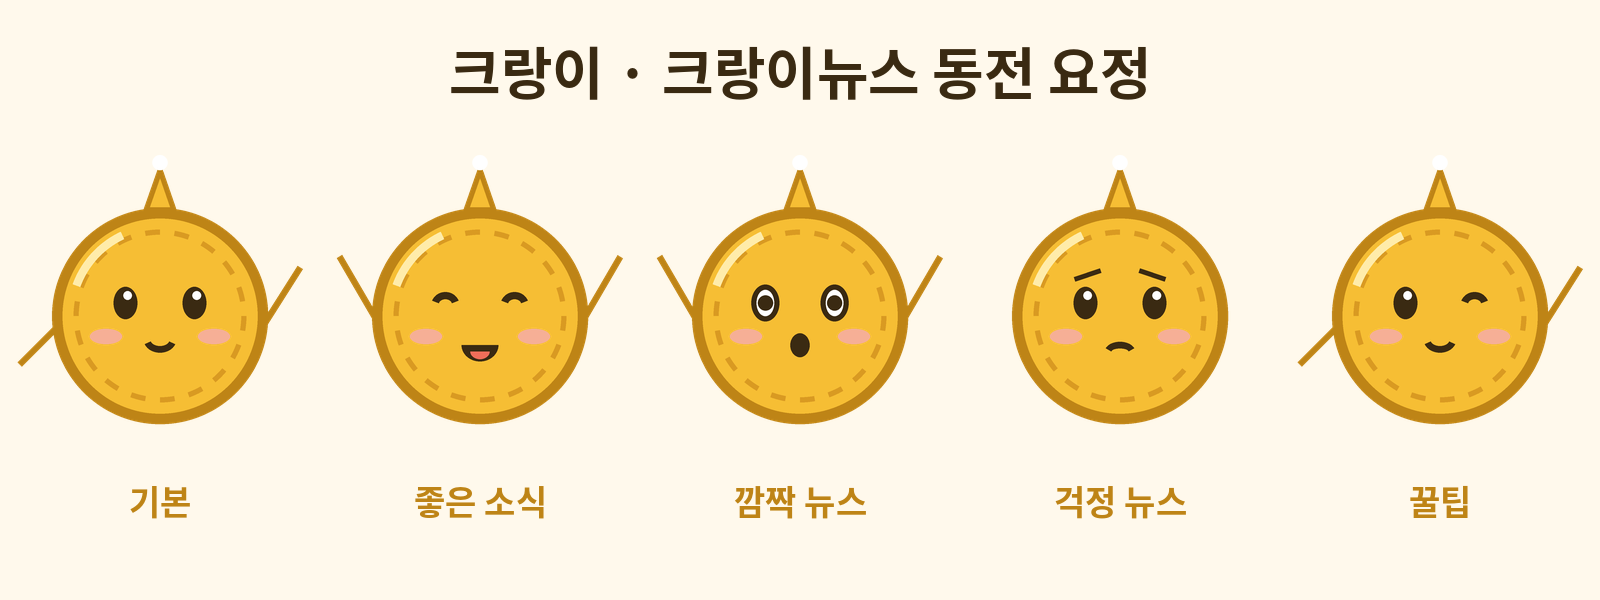
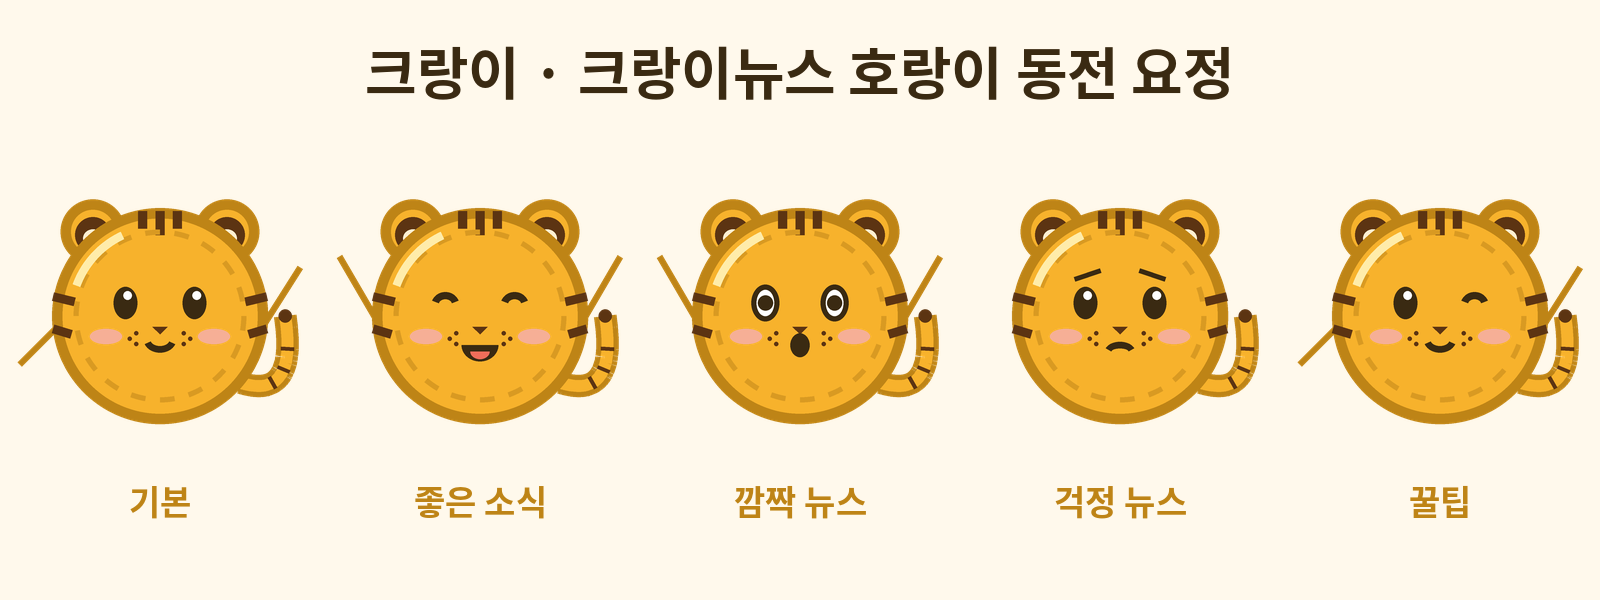
Give Krangi tiger features: ears, stripes, whiskers, tail
Claude-Session: https://claude.ai/code/session_01YQNHmbmQju4yt62yXtNw47

diff --git a/assets/krangi.py b/assets/krangi.py
@@ -1,4 +1,4 @@
-"""크랑이(동전 요정) 캐릭터 그리기 모듈.
+"""크랑이(호랑이 동전 요정) 캐릭터 그리기 모듈.
 
 카드뉴스·릴스 제작 시 import 해서 사용한다.
     from krangi import render_krangi
@@ -8,12 +8,13 @@
 import math
 from PIL import Image, ImageDraw
 
-GOLD = (246, 190, 52)
+GOLD = (247, 178, 44)
 GOLD_DARK = (190, 132, 22)
 GOLD_LINE = (217, 154, 34)
 INK = (58, 42, 18)
 CHEEK = (240, 124, 90, 150)
 WHITE = (255, 255, 255)
+STRIPE = (92, 52, 18)
 
 SS = 4  # 슈퍼샘플링 배율 (부드러운 외곽선)
 
@@ -42,13 +43,50 @@ def render_krangi(size=400, expr="basic"):
         d.line([(cx - r * 0.95, cy + r * 0.1), (cx - r * 1.3, cy + r * 0.45)], fill=GOLD_DARK, width=arm)
         d.line([(cx + r * 0.95, cy + r * 0.1), (cx + r * 1.3, cy - r * 0.45)], fill=GOLD_DARK, width=arm)
 
-    # 머리 위 반짝 뿔
-    tip = (cx, cy - r * 1.42)
-    d.polygon([(cx - r * 0.16, cy - r * 0.96), tip, (cx + r * 0.16, cy - r * 0.96)], fill=GOLD, outline=GOLD_DARK, width=lw)
-    d.ellipse([tip[0] - r * 0.07, tip[1] - r * 0.07, tip[0] + r * 0.07, tip[1] + r * 0.07], fill=WHITE)
+    # 꼬리 (몸 뒤, 오른쪽 아래에서 위로 말림)
+    tail_w = int(S * 0.04)
+    p0 = (cx + r * 0.75, cy + r * 0.62)
+    p1 = (cx + r * 1.28, cy + r * 0.78)
+    p2 = (cx + r * 1.16, cy + r * 0.0)
+    pts = []
+    for t in range(0, 41):
+        u = t / 40
+        pts.append(((1 - u) ** 2 * p0[0] + 2 * (1 - u) * u * p1[0] + u * u * p2[0],
+                    (1 - u) ** 2 * p0[1] + 2 * (1 - u) * u * p1[1] + u * u * p2[1]))
+    d.line(pts, fill=GOLD_DARK, width=tail_w + lw * 2, joint="curve")
+    d.line(pts, fill=GOLD, width=tail_w, joint="curve")
+    for k in (14, 23, 31):
+        (x1, y1), (x2, y2) = pts[k - 1], pts[k + 1]
+        tx, ty = x2 - x1, y2 - y1
+        n_ = math.hypot(tx, ty) or 1
+        nx, ny_ = -ty / n_, tx / n_
+        h = tail_w * 0.55
+        d.line([(pts[k][0] - nx * h, pts[k][1] - ny_ * h), (pts[k][0] + nx * h, pts[k][1] + ny_ * h)], fill=STRIPE, width=int(tail_w * 0.35))
+    ex_, ey_ = pts[-1]
+    d.ellipse([ex_ - tail_w * 0.55, ey_ - tail_w * 0.55, ex_ + tail_w * 0.55, ey_ + tail_w * 0.55], fill=STRIPE)
+
+    # 호랑이 귀
+    for sx in (-1, 1):
+        ax, ay = cx + sx * r * 0.62, cy - r * 0.78
+        er = r * 0.3
+        d.ellipse([ax - er, ay - er, ax + er, ay + er], fill=GOLD, outline=GOLD_DARK, width=lw * 2)
+        ir2 = er * 0.55
+        d.ellipse([ax - ir2, ay - ir2 + er * 0.1, ax + ir2, ay + ir2 + er * 0.1], fill=STRIPE)
+        d.ellipse([ax - ir2 * 0.55, ay - ir2 * 0.4 + er * 0.15, ax + ir2 * 0.55, ay + ir2 * 0.6 + er * 0.15], fill=(255, 240, 210))
 
     # 몸통(동전)
     d.ellipse([cx - r, cy - r, cx + r, cy + r], fill=GOLD, outline=GOLD_DARK, width=lw * 2)
+
+    # 호랑이 줄무늬 (이마 3줄 + 양옆 2줄씩)
+    sw = int(lw * 1.8)
+    for dx, ln in ((-0.16, 0.16), (0, 0.22), (0.16, 0.16)):
+        x0 = cx + r * dx
+        d.line([(x0, cy - r * 0.97), (x0, cy - r * (0.97 - ln))], fill=STRIPE, width=sw)
+    for sx in (-1, 1):
+        for oy, ln in ((-0.18, 0.2), (0.12, 0.17)):
+            x0 = cx + sx * r * 0.99
+            y0 = cy + r * oy
+            d.line([(x0, y0), (x0 - sx * r * ln, y0 + r * 0.05)], fill=STRIPE, width=sw)
     ir = r * 0.8
     n = 36
     for i in range(n):
@@ -79,6 +117,15 @@ def render_krangi(size=400, expr="basic"):
         if expr == "worried":
             d.line([(ex - sx * r * 0.14, ey - r * 0.3), (ex + sx * r * 0.1, ey - r * 0.22)], fill=INK, width=lw)
 
+    # 코 + 수염 점
+    ny = cy + r * 0.1
+    d.polygon([(cx - r * 0.07, ny), (cx + r * 0.07, ny), (cx, ny + r * 0.07)], fill=STRIPE)
+    for sx in (-1, 1):
+        for k in range(3):
+            dx = cx + sx * r * (0.22 + 0.06 * (k % 2))
+            dy = ny + r * (0.06 + 0.05 * k)
+            d.ellipse([dx - r * 0.02, dy - r * 0.02, dx + r * 0.02, dy + r * 0.02], fill=STRIPE)
+
     # 입
     my = cy + r * 0.22
     if expr == "surprised":
@@ -106,7 +153,7 @@ if __name__ == "__main__":
     sd = ImageDraw.Draw(sheet)
     tf = ImageFont.truetype(font_path, 56, index=1)
     lf = ImageFont.truetype(font_path, 34, index=1)
-    sd.text((W / 2, 70), "크랑이 · 크랑이뉴스 동전 요정", font=tf, fill=INK, anchor="mm")
+    sd.text((W / 2, 70), "크랑이 · 크랑이뉴스 호랑이 동전 요정", font=tf, fill=INK, anchor="mm")
     cell = W / len(exprs)
     for i, (e, label) in enumerate(exprs):
         k = render_krangi(300, e)
